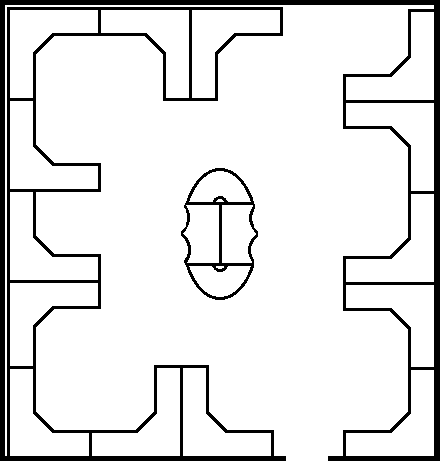
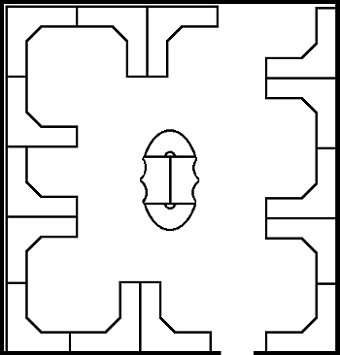
fixed checkin functions

diff --git a/assets/css/main.css b/assets/css/main.css
@@ -109,6 +109,10 @@ SIDEBAR
   text-decoration: none;
 }
 
+#sidebar li a span {
+  margin-right: 10px;
+}
+
 #sidebar li:focus,
 #sidebar li:hover {
   background-color: #666666;
@@ -118,20 +122,6 @@ SIDEBAR
 /****************************
 MAIN CONTENT
 ****************************/
-#container {
-  /*height: 150%;*/
-  /*height: 150%;*/
-  /*overflow-y: auto;*/
-}
-
-.overlay {
-  background: rgba(0,0,0,.6);
-  overflow: visible;
-  /*height: 100%;*/
-  width: 100%;
-  /*z-index: 9999;*/
-}
-
 .list-head {
   margin: 0;
   padding: 15px;
@@ -204,6 +194,7 @@ FLOOR, SECTION
 #section-map img {
   display: block;
   margin: 0 auto;
+  width: 350px;
 }
 
 #section-map img:focus,
@@ -212,7 +203,7 @@ FLOOR, SECTION
 }
 
 #seat-options {
-  display: block;
+  display: none;
 }
 
 #seat-options a {
@@ -227,4 +218,112 @@ FLOOR, SECTION
 
 .favorited {
   color: #cf2a2a;
+}
+
+#map {
+  display: block;
+  width: 340px;
+  height: 355px;
+  position: relative;
+  background-image: url('/assets/img/section.png') ;
+  margin: 0 auto;
+}
+
+.seat {
+  background-color: rgba(81, 163, 81, .5);
+  border: 1px solid rgba(81, 163, 81, .5);
+  color: #333;
+  display: inline-block;
+  font-weight: bold;
+  height: 68px;
+  line-height: 68px;
+  position: absolute;
+  text-align: center;
+  text-shadow: 0 0 5px #fff;
+  width: 68px;
+  z-index: 5000;
+}
+
+.seat:hover {
+  cursor: pointer;
+}
+
+.selected {
+  background-color: rgba(252, 179, 20, .5);
+  border: 1px solid rgba(252, 179, 20, .5);
+}
+
+.unavailable {
+  background-color: rgba(217, 83, 79, .5);
+  border: 1px solid rgba(217, 83, 79, .5);
+}
+
+#s1 {
+  top: 7px;
+  left: 7px;
+}
+
+#s2 {
+  top: 7px;
+  left: 78px;
+}
+
+#s3 {
+  top: 76px;
+  left: 7px;
+}
+
+#s4 {
+  top: 146px;
+  left: 7px;
+}
+
+#s5 {
+  top: 216px;
+  left: 7px;
+}
+
+#s6 {
+  top: 283px;
+  left: 7px;
+}
+
+#s7 {
+  top: 283px;
+  left: 76px;
+}
+
+#s8 {
+  top: 7px;
+  left: 150px;
+}
+
+#s9 {
+  top: 283px;
+  left: 145px;
+}
+
+#s10 {
+  top: 8px;
+  left: 266px;
+}
+
+#s11 {
+  top: 78px;
+  left: 266px;
+}
+
+#s12 {
+  top: 148px;
+  left: 266px;
+}
+
+#s13 {
+  top: 217px;
+  left: 266px;
+}
+
+#s14 {
+  top: 285px;
+  left: 266px;
 }

diff --git a/app/components/section/controller.js b/app/components/section/controller.js
@@ -4,6 +4,7 @@ flexDeskApp.controller('sectionController', ['$scope', '$cookies', '$cookieStore
 	$scope.sections = [];
 	$scope.floor = $cookieStore.get('selectedFloor');
 	$scope.building = $cookieStore.get('selectedBuildingName');
+	$scope.reservedDesk = false;
 
 	if ($scope.building == 'Midtown I' && $scope.floor == '16th Floor') {
 		$scope.sections = sectionListATLSixteen;
@@ -14,16 +15,35 @@ flexDeskApp.controller('sectionController', ['$scope', '$cookies', '$cookieStore
 		$location.url("layout");
 	};
 
-	$scope.floor16Sections = $scope.sections[0];
+	$scope.floor16Sections = $scope.sections[1];
 
-	$('#action-btn').click(function() {
-	  $(this).toggleClass('btn-danger');
-		$('#action-btn span').toggleClass('glyphicon-remove');
-	});
+	$scope.reserveDesk = function(selectedSeat) {
 
-	$('#favorite-btn').click(function() {
-	  $('#favorite-btn span').toggleClass('favorited');
-	});
+		if (!$scope.reservedDesk) {
+			$scope.reservedDesk = selectedSeat;
+		}
+
+		if (selectedSeat == $scope.reservedDesk) {
+
+			$('#' + selectedSeat).toggleClass('selected');
+
+			$('#seat-options').toggle('fast');
+
+			$('#action-btn').click(function() {
+				$(this).toggleClass('btn-danger');
+				$('#action-btn span').toggleClass('glyphicon-remove');
+				$('#' + selectedSeat).toggleClass('unavailable');
+			});
+
+			$('#favorite-btn').click(function() {
+				$('#favorite-btn span').toggleClass('favorited');
+			});
+		}
+
+		if (!$('#' + selectedSeat).hasClass('selected') && !$('#' + selectedSeat).hasClass('unavailable')) {
+			$scope.reservedDesk = false;
+		}
+	};
 }]);
 
 var sectionListATLSixteen = [

diff --git a/app/components/section/section.html b/app/components/section/section.html
@@ -5,7 +5,7 @@
 		<small>{{ floor }}</small>
 	</div>
 </div>
-<hr class="hr-small">
+	<hr class="hr-small">
 
 <div class="content-pad">
 	<form id="section-form">
@@ -16,7 +16,24 @@
 
 	<div id="section-map">
 		<h4>{{ floor16Sections.value }}</h4>
-		<img ng-src="{{ floor16Sections.img }}" />
+		<div id="map">
+			<!-- <img id="pod" ng-src="{{ floor16Sections.img }}"/> -->
+			<a id="s1" class="seat" ng-click="reserveDesk('s1')">16-132</a>
+			<a id="s2" class="seat" ng-click="reserveDesk('s2')">16-139</a>
+			<a id="s3" class="seat" ng-click="reserveDesk('s3')">16-133</a>
+			<a id="s4" class="seat" ng-click="reserveDesk('s4')">16-134</a>
+			<a id="s5" class="seat" ng-click="reserveDesk('s5')">16-135</a>
+			<a id="s6" class="seat" ng-click="reserveDesk('s6')">16-136</a>
+			<a id="s7" class="seat" ng-click="reserveDesk('s7')">16-137</a>
+			<a id="s8" class="seat" ng-click="reserveDesk('s8')">16-140</a>
+			<a id="s9" class="seat" ng-click="reserveDesk('s9')">16-138</a>
+			<a id="s10" class="seat" ng-click="reserveDesk('s10')">16-141</a>
+			<a id="s11" class="seat" ng-click="reserveDesk('s11')">16-142</a>
+			<a id="s12" class="seat" ng-click="reserveDesk('s12')">16-143</a>
+			<a id="s13" class="seat" ng-click="reserveDesk('s13')">16-144</a>
+			<a id="s14" class="seat" ng-click="reserveDesk('s14')">16-145</a>
+		</div>
+
 	</div>
 </div>
 

diff --git a/assets/js/main.js b/assets/js/main.js
@@ -1,30 +1,6 @@
 var $main = $('#container');
 
 $('#sidebar ul').css('height', window.innerHeight0);
-/*
-var sidebar = $('#sidebar').scotchPanel({
-  containerSelector: 'body', // As a jQuery Selector
-  direction: 'left', // Make it toggle in from the left
-  duration: 300, // Speed in ms how fast you want it to be
-  transition: 'ease', // CSS3 transition type: linear, ease, ease-in, ease-out, ease-in-out, cubic-bezier(P1x,P1y,P2x,P2y)
-  clickSelector: '.toggle-panel', // Enables toggling when clicking elements of this class
-  distanceX: '200px', // Size fo the toggle
-  enableEscapeKey: true // Clicking Esc will close the panel
-});
-
-// $('.toggle-panel').click(function() {
-//   $('#wrapper').toggleClass('overlay');
-// });
-
-$main.click(function() {
-  sidebar.close();
-});
-
-$('#sidebar li').click(function() {
-  sidebar.close();
-});
-
-*/
 
 $('#search-icon').click(function() {
   $('#search').animate({width: 'toggle'}, 'fast');

diff --git a/main.html b/main.html
@@ -28,11 +28,10 @@
       <span id="side-attuid">ATTUID</span>
     </div>
     <ul>
-      <li><a href="index.html">Logout</a></li>
-      <li><a href="#/">Select Building</a></li>
-      <li><a href="#">Locate Cube</a></li>
-      <li><a href="#">Favorites</a></li>
-      <li><a href="#">Help</a></li>
+      <li><a href="#/"><span class="glyphicon glyphicon-home"></span> Buildings</a></li>
+      <li><a href="#"><span class="glyphicon glyphicon-heart"></span> Favorites</a></li>
+      <li><a href="#"><span class="glyphicon glyphicon-question-sign"></span> Help</a></li>
+      <li><a href="index.html"><span class="glyphicon glyphicon-off"></span> Logout</a></li>
     </ul>
   </nav>
 
